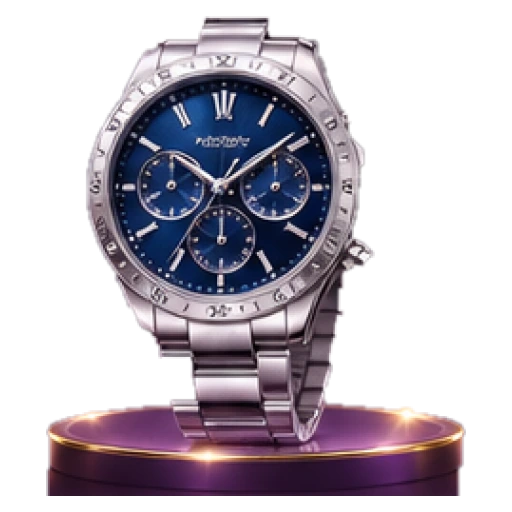
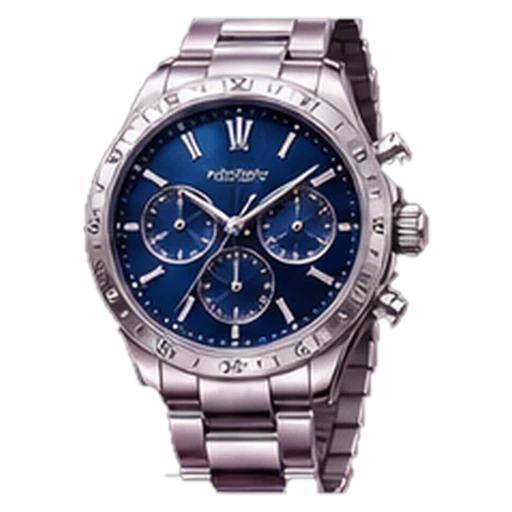
R68z40e: souvenirs without the purple podium (owner request)
Claude-Session: https://claude.ai/code/session_013Dw5YXk6gdhBXsie6KboY7

diff --git a/public/sw.js b/public/sw.js
@@ -1,10 +1,10 @@
 /* لعبك — عامل الخدمة: تحديث الشبكة أولاً، واللعب الجماعي يحتاج اتصال. */
 const CACHE_PREFIX = 'la3bak-shell-';
-const VER = CACHE_PREFIX + 'r68z40d';
+const VER = CACHE_PREFIX + 'r68z40e';
 const LEGACY_SHELL_CACHES = ['la3bak-rank-vip-1'];
 // Deduplicate exact URLs; keep the existing network-first/offline policy.
 // The unused legacy codewords image is not precached; the shipped R45 cover stays.
-const SHELL = [...new Set(['/root-navigation-r50.js?v=back-nav-r51', '/preview/assets/game-minaboli-3d-r49.webp', '/preview/assets/game-codewords-3d-r45.webp', '/emerald-r44.css?v=r58q', '/unified/emerald-room-r44.css?v=r58p', '/unified/gift-compact-r38.css?v=r58p','/unified/room-owner-start-r33.css?v=r58q','/social-room-tools-r33.css?v=r58p','/community-access-r37.js','/unified/notifications.js?v=r68z35','/social-room-tools-r33.js?v=r58p','/room-start-r33.js','/social-gift-context-r33.js','/gift3d-variants-r33.js','/unified/pk-reference-r32.css?v=r58p','/social-challenge.js?v=r57','/social-challenge.css?v=r58p','/room-photo-r31.js?v=room-photo-r31','/unified/room-photo-r31.css?v=r58q','/social-directory-r30.js?v=r68z20','/unified/room-directory-r30.css?v=r58q','/unified/room-style-r27.css?v=r58p', '/unified/reference-room-r28.css?v=r58q', '/unified/reference-panels-r28.css?v=r58q', '/unified/reference-gifts-r28.css?v=r58q', '/unified/gift-colors-r29.css?v=r58p', '/unified/room-dock-r29.css?v=r58p', '/cannon3d-r29.css?v=r58p', '/cannon3d-r29.js?v=r68v-cannon-r29','/social-room-controls-r27.js?v=r67al','/gift3d-r27.js?v=emerald-r44','/gift3d-r27.css','/gift-assets-r27.js?v=r68i-r35','/social-gift-runtime-r27.js?v=r68i','/social-cannon-ui-r27.js?v=r68z40d','/social-challenge.js?v=r57','/social-challenge.css?v=r58p','/store-r23.css?v=r58p','/frame-art-r23.css?v=r58i2','/entrancefx-r23.js?v=r68z38e','/entrancefx-r23.css?v=emerald-r44','/preview/profile-head-r20.css?v=r58p', '/preview/profile-head-r22.css?v=r58p','/preview/profile-list-r19.css?v=r58p','/unified/room-composer-r18.css?v=r58p','/unified/global-search.js?v=r68v-search-r17','/unified/global-search.css?v=r58p','/unified/search-icon.js?v=global-search-r17','/preview/profile-frame-r4.css?v=r58p', '/brand-royal-r16.css?v=r58p', '/preview/profile-host-r15.css?v=emerald-r44','/unified/ranks.js?v=r68z40d', '/unified/ranks.css?v=r58p', '/unified/vip.js?v=r68z40d', '/unified/vip.css?v=r58p', '/unified/vip-noble-r52.js?v=r68z40d', '/unified/vip-noble-r52.css?v=r58q', '/profile-social-r53.js?v=r68z31', '/preview/profile-r53.css?v=r58q', '/preview/rank-overview.js?v=r66b', '/preview/rank-overview.css?v=r58p', '/preview/rank-current.css?v=r58p', '/unified/backgrounds.js?v=r68z40d', '/unified/backgrounds.css?v=r58q', '/background-art.js?v=r58p', '/', '/preview.html?v=release-r14', '/app.css?v=r58q', '/reference-store.css?v=r58p', '/unified/home.css?v=r58p', '/unified/home.js?v=r68z20', '/unified/unified.css?v=r60d', '/unified/shell.js?v=r68z40d', '/preview/profile.css?v=r58p', '/preview/profile-integration.css?v=r58p', '/preview/profile-match.css?v=r58q', '/preview/page-shell.css?v=r58p', '/preview/shop-modern.css?v=r58p', '/preview/app.js?v=r68z40d', '/preview/profile.js?v=r68z40d', '/preview/assets/profile/ui-icons-inline.js?v=r58p', '/preview/assets/profile/rank-display.js', '/pwa.js?v=r68z40d', '/boot.js?v=r64a', '/theme.js?v=r64a', '/theme.js?v=r64a', '/royal-gameplay.css?v=r58p', '/royal-navigation.css?v=r58p', '/auth.js', '/manifest.webmanifest', '/favicon.svg', '/apple-touch-icon.png', '/game-availability.js?v=games-royal-1', '/games.js?v=r68z31',   '/offline.js?v=games-royal-1', '/unified/games.js?v=r68z31', '/unified/social.js?v=r68z40d', '/rank-perks-r56.js?v=r67t', '/rank-perks-r56.css?v=r56', '/unified/social-r55.css?v=r58q', '/unified/social.css?v=r58p', '/social-voice.js?v=release-r14', '/social-assets/majlis-atmosphere.webp', '/admin.js?v=r68z40d', '/admin-bulk-grants.js?v=r66a', '/admin-bulk-grants.css?v=r58p', '/preview/rank-current.css?v=r58p', '/preview/rank-overview.js?v=r66b', '/unified/payments.js?v=r68i', '/account-tools.js?v=ui-correction-r3', '/account-verification.css?v=r58q', '/unified/social-room-r7.css?v=r58p', '/social-gifts.js?v=r68z31', '/social-assets/voice-night-r7.jpg', '/social-assets/friends-room-cover.webp', '/unified/wallet.js?v=r68i', '/shop.js?v=r68z40d', '/unified/store.js?v=r68z40d', '/unified/backgrounds.js?v=r68z40d', '/unified/payments.js?v=r68i', '/unified/payments.css?v=r58p', '/unified/social-settings-r12.css?v=r58p', '/social-benefits.js?v=r68z31', '/unified/social-benefits-r12.css?v=r58q', '/gifts.js?v=r68z31', '/gift-reward-ui.js?v=r68i', '/unified/gift-rewards-r13.css?v=r58p', '/giftart.js?v=r68i-r14', '/unified/game-voice-r9.css?v=r58p'])];
+const SHELL = [...new Set(['/root-navigation-r50.js?v=back-nav-r51', '/preview/assets/game-minaboli-3d-r49.webp', '/preview/assets/game-codewords-3d-r45.webp', '/emerald-r44.css?v=r58q', '/unified/emerald-room-r44.css?v=r58p', '/unified/gift-compact-r38.css?v=r58p','/unified/room-owner-start-r33.css?v=r58q','/social-room-tools-r33.css?v=r58p','/community-access-r37.js','/unified/notifications.js?v=r68z35','/social-room-tools-r33.js?v=r58p','/room-start-r33.js','/social-gift-context-r33.js','/gift3d-variants-r33.js','/unified/pk-reference-r32.css?v=r58p','/social-challenge.js?v=r57','/social-challenge.css?v=r58p','/room-photo-r31.js?v=room-photo-r31','/unified/room-photo-r31.css?v=r58q','/social-directory-r30.js?v=r68z20','/unified/room-directory-r30.css?v=r58q','/unified/room-style-r27.css?v=r58p', '/unified/reference-room-r28.css?v=r58q', '/unified/reference-panels-r28.css?v=r58q', '/unified/reference-gifts-r28.css?v=r58q', '/unified/gift-colors-r29.css?v=r58p', '/unified/room-dock-r29.css?v=r58p', '/cannon3d-r29.css?v=r58p', '/cannon3d-r29.js?v=r68v-cannon-r29','/social-room-controls-r27.js?v=r67al','/gift3d-r27.js?v=emerald-r44','/gift3d-r27.css','/gift-assets-r27.js?v=r68i-r35','/social-gift-runtime-r27.js?v=r68i','/social-cannon-ui-r27.js?v=r68z40e','/social-challenge.js?v=r57','/social-challenge.css?v=r58p','/store-r23.css?v=r58p','/frame-art-r23.css?v=r58i2','/entrancefx-r23.js?v=r68z38e','/entrancefx-r23.css?v=emerald-r44','/preview/profile-head-r20.css?v=r58p', '/preview/profile-head-r22.css?v=r58p','/preview/profile-list-r19.css?v=r58p','/unified/room-composer-r18.css?v=r58p','/unified/global-search.js?v=r68v-search-r17','/unified/global-search.css?v=r58p','/unified/search-icon.js?v=global-search-r17','/preview/profile-frame-r4.css?v=r58p', '/brand-royal-r16.css?v=r58p', '/preview/profile-host-r15.css?v=emerald-r44','/unified/ranks.js?v=r68z40e', '/unified/ranks.css?v=r58p', '/unified/vip.js?v=r68z40e', '/unified/vip.css?v=r58p', '/unified/vip-noble-r52.js?v=r68z40e', '/unified/vip-noble-r52.css?v=r58q', '/profile-social-r53.js?v=r68z31', '/preview/profile-r53.css?v=r58q', '/preview/rank-overview.js?v=r66b', '/preview/rank-overview.css?v=r58p', '/preview/rank-current.css?v=r58p', '/unified/backgrounds.js?v=r68z40e', '/unified/backgrounds.css?v=r58q', '/background-art.js?v=r58p', '/', '/preview.html?v=release-r14', '/app.css?v=r58q', '/reference-store.css?v=r58p', '/unified/home.css?v=r58p', '/unified/home.js?v=r68z20', '/unified/unified.css?v=r60d', '/unified/shell.js?v=r68z40e', '/preview/profile.css?v=r58p', '/preview/profile-integration.css?v=r58p', '/preview/profile-match.css?v=r58q', '/preview/page-shell.css?v=r58p', '/preview/shop-modern.css?v=r58p', '/preview/app.js?v=r68z40e', '/preview/profile.js?v=r68z40e', '/preview/assets/profile/ui-icons-inline.js?v=r58p', '/preview/assets/profile/rank-display.js', '/pwa.js?v=r68z40e', '/boot.js?v=r64a', '/theme.js?v=r64a', '/theme.js?v=r64a', '/royal-gameplay.css?v=r58p', '/royal-navigation.css?v=r58p', '/auth.js', '/manifest.webmanifest', '/favicon.svg', '/apple-touch-icon.png', '/game-availability.js?v=games-royal-1', '/games.js?v=r68z31',   '/offline.js?v=games-royal-1', '/unified/games.js?v=r68z31', '/unified/social.js?v=r68z40e', '/rank-perks-r56.js?v=r67t', '/rank-perks-r56.css?v=r56', '/unified/social-r55.css?v=r58q', '/unified/social.css?v=r58p', '/social-voice.js?v=release-r14', '/social-assets/majlis-atmosphere.webp', '/admin.js?v=r68z40e', '/admin-bulk-grants.js?v=r66a', '/admin-bulk-grants.css?v=r58p', '/preview/rank-current.css?v=r58p', '/preview/rank-overview.js?v=r66b', '/unified/payments.js?v=r68i', '/account-tools.js?v=ui-correction-r3', '/account-verification.css?v=r58q', '/unified/social-room-r7.css?v=r58p', '/social-gifts.js?v=r68z31', '/social-assets/voice-night-r7.jpg', '/social-assets/friends-room-cover.webp', '/unified/wallet.js?v=r68i', '/shop.js?v=r68z40e', '/unified/store.js?v=r68z40e', '/unified/backgrounds.js?v=r68z40e', '/unified/payments.js?v=r68i', '/unified/payments.css?v=r58p', '/unified/social-settings-r12.css?v=r58p', '/social-benefits.js?v=r68z31', '/unified/social-benefits-r12.css?v=r58q', '/gifts.js?v=r68z31', '/gift-reward-ui.js?v=r68i', '/unified/gift-rewards-r13.css?v=r58p', '/giftart.js?v=r68i-r14', '/unified/game-voice-r9.css?v=r58p'])];
 self.addEventListener('install', (e) => {
   e.waitUntil(caches.open(VER).then((c) => Promise.all(SHELL.map((u) => c.add(new Request(u, { cache: 'reload' })).catch(() => {})))).then(() => self.skipWaiting()));
 });
@@ -22,7 +22,7 @@ self.addEventListener('fetch', (e) => {
   // الحين: الملف اللي فيه رقم نسخة (?v=) ما يتغير أبدًا → من الكاش على طول. الصور والملفات الثابتة بدون رقم → من الكاش ونحدّثها بالخلفية.
   // الصفحة نفسها (HTML) وملف sw → من الشبكة أول (عشان التحديثات توصل على طول)، والكاش لو ما فيه نت.
   const put = (res) => { if (res && res.ok && res.type === 'basic') { const copy = res.clone(); e.waitUntil(caches.open(VER).then((c) => c.put(req, copy)).catch(() => {})); } return res; };
-  const isPage = req.mode === 'navigate' || url.pathname === '/' || /\.(?:html|webmanifest)$/.test(url.pathname) || url.pathname === '/sw.js?v=r68z40d';
+  const isPage = req.mode === 'navigate' || url.pathname === '/' || /\.(?:html|webmanifest)$/.test(url.pathname) || url.pathname === '/sw.js?v=r68z40e';
   if (isPage) {
     e.respondWith(fetch(req, { cache: 'no-cache' }).then(put).catch(async () => { const c = await caches.open(VER); const hit = await c.match(req); return hit || (req.mode === 'navigate' ? (await c.match('/')) || Response.error() : Response.error()); }));
     return;

diff --git a/public/preview/app.js b/public/preview/app.js
@@ -1,8 +1,8 @@
 import { createGlobalSearch } from '../unified/global-search.js?v=r68v-search-r17';
-import * as PR from './profile.js?v=r68z40d';
-import * as UNIFIED from '../unified/shell.js?v=r68z40d';
+import * as PR from './profile.js?v=r68z40e';
+import * as UNIFIED from '../unified/shell.js?v=r68z40e';
 import * as REF from '../unified/home.js?v=r68z20';
-import * as SOCIAL from '../unified/social.js?v=r68z40d';
+import * as SOCIAL from '../unified/social.js?v=r68z40e';
 const { leaveSocial, refreshSocial } = SOCIAL;
 import { isRetiredGame, visibleGameCatalogue, retiredGameHTML } from '../game-availability.js?v=games-royal-1';
 import { createSocialGiftStore } from '../social-gifts.js?v=r68z31';
@@ -22,8 +22,8 @@ import * as FS from '../fullscreen.js?v=shell-r6';
 import { mountSprite } from '../characters.js?v=shell-r6';
 mountSprite();
 import * as SEASON from '../seasons.js?v=shell-r6';
-import * as PF from '../profile.js?v=r68z40d';
-import * as SHOP from '../shop.js?v=r68z40d';
+import * as PF from '../profile.js?v=r68z40e';
+import * as SHOP from '../shop.js?v=r68z40e';
 import * as GIFT from '../gifts.js?v=r68z31';
 import * as GFX from '../giftfx.js?v=r68i';
 import * as AVR from '../avatars.js?v=r68z31';
@@ -40,10 +40,10 @@ import * as CITY from '../city.js?v=r57';
 import * as COM from '../community.js?v=r68z35';
 import { isCommunityRestricted } from '../community-access-r37.js';
 import * as THEME from '../theme.js?v=r64a';
-import * as PWA from '../pwa.js?v=r68z40d';
+import * as PWA from '../pwa.js?v=r68z40e';
 import * as SFX from '../sfx.js?v=shell-r6';
 import * as OFF from '../offline.js?v=games-royal-1';
-import * as MIS from '../missions.js?v=r68z40d';
+import * as MIS from '../missions.js?v=r68z40e';
 import * as CHAT from '../chat.js?v=r68z31';
 import { accountToolsView } from '../account-tools.js?v=shell-r6';
 
@@ -395,7 +395,7 @@ function unifiedContext(page, content='') {
 /* R60: الإعدادات/الخصوصية/معلومات الحساب (قوائم صفوف مثل فيديو المالك) */
 let S60 = null;
 async function settingsR60(view, name) {
-  const M = await import('../settings-r60.js?v=r68z40d');
+  const M = await import('../settings-r60.js?v=r68z40e');
   const st = { msg: '', bad: false, priv: null, settings: null };
   const paint = () => {
     if (parseRoute().name !== name) return;
@@ -668,7 +668,7 @@ async function render() {
       break;
     case 'admin': {
       const identity=S.user?.id||'',existing=view.querySelector('#adminRoot');
-      if(changed||!existing||existing.dataset.sessionIdentity!==identity) {view.innerHTML='<div id="adminRoot"></div>';const root=view.querySelector('#adminRoot');root.dataset.sessionIdentity=identity;import('../admin.js?v=r68z40d').then(m=>{if(root.isConnected&&parseRoute().name==='admin')m.mountAdmin(root);}).catch(()=>{if(root.isConnected)root.textContent='تعذّر تحميل الإدارة؛ حدّث الصفحة.';});}
+      if(changed||!existing||existing.dataset.sessionIdentity!==identity) {view.innerHTML='<div id="adminRoot"></div>';const root=view.querySelector('#adminRoot');root.dataset.sessionIdentity=identity;import('../admin.js?v=r68z40e').then(m=>{if(root.isConnected&&parseRoute().name==='admin')m.mountAdmin(root);}).catch(()=>{if(root.isConnected)root.textContent='تعذّر تحميل الإدارة؛ حدّث الصفحة.';});}
       break;
     }
     case 'city':

diff --git a/public/admin.js b/public/admin.js
@@ -1,12 +1,12 @@
 import {mountAuctionAdminR47} from './auction-admin-r47.js?v=r57';
-import {mountRankVipAdmin} from './rank-vip-admin.js?v=r68z40d';
+import {mountRankVipAdmin} from './rank-vip-admin.js?v=r68z40e';
 import { side68, head68, brand68, dash68HTML } from './admin-dash-r68.js?v=r68z10';
 import {adminRoyalIcon,adminRoyalBrand,adminRoyalLogin,adminRoyalOverview} from './admin-royal-view.js?v=r68l-royal-1';
-import {mountPaymentAdmin} from './payment-admin.js?v=r68z40d';
+import {mountPaymentAdmin} from './payment-admin.js?v=r68z40e';
 import {mountBulkGrants,unmountBulkGrants,resetBulkGrants} from './admin-bulk-grants.js?v=r66a';
-import {mountSocialAdmin} from './social-admin.js?v=r68z40d';
-import { pricingHTML, progressionHTML } from './economy-admin.js?v=r68z40d';
-import { ownerToolsVisible, ownerToolsEntryHTML, mountOwnerPlayerTools } from './owner-player-tools.js?v=r68z40d';
+import {mountSocialAdmin} from './social-admin.js?v=r68z40e';
+import { pricingHTML, progressionHTML } from './economy-admin.js?v=r68z40e';
+import { ownerToolsVisible, ownerToolsEntryHTML, mountOwnerPlayerTools } from './owner-player-tools.js?v=r68z40e';
 /* لوحة الإدارة (عربي RTL). كل البيانات من /api/admin/* بالخادم؛ الواجهة تخفي ما لا تملك صلاحيته لكن الحماية الفعلية بالخادم.
    الدخول: رمز الإدارة (يُحفظ بـ sessionStorage فقط، يزول بإغلاق التبويب) أو حساب مسجّل بالطاقم. */
 const esc = (s) => String(s ?? '').replace(/[&<>"']/g, (c) => ({ '&': '&amp;', '<': '&lt;', '>': '&gt;', '"': '&quot;', "'": '&#39;' }[c]));
@@ -350,7 +350,7 @@ export function mountAdmin(root) {
     const bulkRoot=root.querySelector('[data-bulk-grants-host]');
     if(bulkRoot && can('wallet.bulk-grant')) mountBulkGrants(bulkRoot,{call,me:{...S.me,perms:[...S.me.perms,'rewards.grant']}});
     const functional=root.querySelector('[data-functional-admin]');
-    if(functional) import('./functional-admin.js?v=r68z40d').then(({mountFunctionalAdmin})=>{if(functional.isConnected)mountFunctionalAdmin(functional,{api:(path,method='GET',body)=>call(path,{method,body})});}).catch(()=>{if(functional.isConnected)functional.textContent='تعذّر تحميل أدوات الوظائف. أعد فتح التبويب.';});
+    if(functional) import('./functional-admin.js?v=r68z40e').then(({mountFunctionalAdmin})=>{if(functional.isConnected)mountFunctionalAdmin(functional,{api:(path,method='GET',body)=>call(path,{method,body})});}).catch(()=>{if(functional.isConnected)functional.textContent='تعذّر تحميل أدوات الوظائف. أعد فتح التبويب.';});
   }
   async function go(tab, keep = false) { if (tab === 'owner-tools' && !ownerToolsVisible(S.me)) return; if (tab) { if (tab !== 'player-log') S.logQ = ''; S.tab = tab; S.player = null; } S.sidebarOpen=false; if (!keep) { S.err = ''; S.msg = ''; S.warn = ''; } paint(); await load(); paint(); }
   async function run(fn, ok) {

diff --git a/public/index.html b/public/index.html
@@ -25,10 +25,10 @@
 <link rel="preconnect" href="https://fonts.googleapis.com">
 <link rel="preconnect" href="https://fonts.gstatic.com" crossorigin>
 <!-- Exact URLs used by app.js/shell.js: modulepreload warms, never forks module state. -->
-<link rel="modulepreload" href="/preview/app.js?v=r68z40d">
-<link rel="modulepreload" href="/unified/shell.js?v=r68z40d">
+<link rel="modulepreload" href="/preview/app.js?v=r68z40e">
+<link rel="modulepreload" href="/unified/shell.js?v=r68z40e">
 <link rel="modulepreload" href="/unified/home.js?v=r68z20">
-<link rel="modulepreload" href="/preview/profile.js?v=r68z40d">
+<link rel="modulepreload" href="/preview/profile.js?v=r68z40e">
 <link rel="stylesheet" href="/app.css?v=r58q">
 <link rel="stylesheet" href="/reference-store.css?v=r58p">
 <link rel="stylesheet" href="/unified/home.css?v=r58p">
@@ -157,11 +157,11 @@
 <script type="module" src="/bonds-r68.js?v=r68z36"></script>
 <script type="module" src="/theme-r68.js?v=r68z39d"></script>
 <script type="module" src="/profile-cards-r67.js?v=r68z15"></script>
-<script type="module" src="/profile-bg-r67.js?v=r68z40d"></script>
+<script type="module" src="/profile-bg-r67.js?v=r68z40e"></script>
 <script type="module" src="/broadcast-r67.js?v=r67ao"></script>
 <script type="module" src="/room-level-r67.js?v=r67av"></script>
 <script type="module" src="/account-delete-r67.js?v=r67at"></script>
 <script type="module" src="/tribe-r58.js?v=r63a"></script>
-<script type="module" src="/preview/app.js?v=r68z40d"></script>
+<script type="module" src="/preview/app.js?v=r68z40e"></script>
 </body>
 </html>

diff --git a/public/preview.html b/public/preview.html
@@ -25,10 +25,10 @@
 <link rel="preconnect" href="https://fonts.googleapis.com">
 <link rel="preconnect" href="https://fonts.gstatic.com" crossorigin>
 <!-- Exact URLs used by app.js/shell.js: modulepreload warms, never forks module state. -->
-<link rel="modulepreload" href="/preview/app.js?v=r68z40d">
-<link rel="modulepreload" href="/unified/shell.js?v=r68z40d">
+<link rel="modulepreload" href="/preview/app.js?v=r68z40e">
+<link rel="modulepreload" href="/unified/shell.js?v=r68z40e">
 <link rel="modulepreload" href="/unified/home.js?v=r68z20">
-<link rel="modulepreload" href="/preview/profile.js?v=r68z40d">
+<link rel="modulepreload" href="/preview/profile.js?v=r68z40e">
 <link rel="stylesheet" href="/app.css?v=r58q">
 <link rel="stylesheet" href="/reference-store.css?v=r58p">
 <link rel="stylesheet" href="/unified/home.css?v=r58p">
@@ -147,11 +147,11 @@
 <script type="module" src="/bonds-r68.js?v=r68z36"></script>
 <script type="module" src="/theme-r68.js?v=r68z39d"></script>
 <script type="module" src="/profile-cards-r67.js?v=r68z15"></script>
-<script type="module" src="/profile-bg-r67.js?v=r68z40d"></script>
+<script type="module" src="/profile-bg-r67.js?v=r68z40e"></script>
 <script type="module" src="/broadcast-r67.js?v=r67ao"></script>
 <script type="module" src="/room-level-r67.js?v=r67av"></script>
 <script type="module" src="/account-delete-r67.js?v=r67at"></script>
 <script type="module" src="/tribe-r58.js?v=r63a"></script>
-<script type="module" src="/preview/app.js?v=r68z40d"></script>
+<script type="module" src="/preview/app.js?v=r68z40e"></script>
 </body>
 </html>

diff --git a/public/shop.js b/public/shop.js
@@ -85,7 +85,7 @@ function thumb(i) {
   if (i.slot === 'entrance') return safeArt(i.art) ? `<img class="r23-entrance-art" src="${esc(safeArt(i.art))}" alt="" loading="lazy" decoding="async">` : `<span class="r23-art-missing">${renderProfileIcon('image')}<small>صورة المركبة غير متاحة</small></span>`;
   // R58r: إطار المايك فوق دائرة تمثّل صورة المتحدث
   if (i.slot === 'mic-frame') return /^mf\d\d$/.test(i.css || '') ? `<span class="mf-thumb"><i aria-hidden="true">🎙</i><img src="/assets/art58/mic/m${esc(i.css.slice(2))}.webp?v=r58r" alt="" loading="lazy" decoding="async"></span>` : renderProfileIcon('star');
-  if (i.slot === 'souvenir') return safeArt(i.art) ? `<img class="r23-souv-art" src="${esc(safeArt(i.art))}?v=${i.id >= 'souv-29' ? 'r68z40d' : 'r58o'}" alt="" loading="lazy" decoding="async">` : renderProfileIcon('star');
+  if (i.slot === 'souvenir') return safeArt(i.art) ? `<img class="r23-souv-art" src="${esc(safeArt(i.art))}?v=${i.id >= 'souv-29' ? 'r68z40e' : 'r58o'}" alt="" loading="lazy" decoding="async">` : renderProfileIcon('star');
   if (i.slot === 'avatar') return avatarArt(i.id, 64, i.css === 'av2' ? undefined : i.css) || renderProfileIcon('person');
   if (i.slot === 'frame') return safeArt(i.art) ? `<img class="r23-frame-art" src="${esc(safeArt(i.art))}" alt="" loading="lazy" decoding="async">` : referenceOf(i.css || i.id)?.slot === 'frame' ? referenceImage(i.css || i.id, 'r23-frame-art') : framed(i.css, FACE, 'sm');
   if (i.slot === 'bg') return `<span class="cx-bgthumb">${bgLayer(i)}</span>`;

diff --git a/public/unified/social.js b/public/unified/social.js
@@ -7,14 +7,14 @@ import {roomPhotoFields,createRoomPhotoPicker} from '../room-photo-r31.js?v=room
 import {renderDirectory,renderCreateFields,validateCreate} from '../social-directory-r30.js?v=r68z20';
 import {createOwnerRoomStart,confirmedOwnerSeat,startOwnerVoice,ownerStartFeedback} from '../room-start-r33.js?v=room-owner-start-r33';
 import {themeName,themeCards,applyRoomTheme,seatLockCards} from '../social-room-controls-r27.js?v=r67al';
-import {framed as frameOwnedPortrait} from '../shop.js?v=r68z40d';
+import {framed as frameOwnedPortrait} from '../shop.js?v=r68z40e';
 import { createEntranceFX } from '../entrancefx-r23.js?v=r68z38e';
 import { createSocialChallenge, renderSetup, validateTeams, preserveScorebar } from '../social-challenge.js?v=r57';
 import {attachGiftRuntime,receiveGiftRuntime,clearGiftRuntime,giftRuntimeMetrics,giftArtwork} from '../social-gift-runtime-r27.js?v=r68i';
 import {bigGift} from './gift-big-r67.js?v=r68i';
 import {cinemaHTML,cinemaMount,cinemaUnmount,cinemaPosition,parseYouTube} from './room-cinema-r67.js?v=r67s';
 import {cannon3Shortcut,cannon3Panel,cannon3Blast} from './room-cannon-r59.js?v=r67i';
-import {cannonPanel,cannonShortcut,createCannonEffects} from '../social-cannon-ui-r27.js?v=r68z40d';
+import {cannonPanel,cannonShortcut,createCannonEffects} from '../social-cannon-ui-r27.js?v=r68z40e';
 /* Social rooms only. Parent owns routes, session, authenticated api and shell.
  * The live controller outlives DOM mounts. No implicit room/council join on render. */
 import { mini as avatarMini } from '../avatars.js?v=r68z31';

diff --git a/public/unified/shell.js b/public/unified/shell.js
@@ -13,11 +13,11 @@ import * as drawer from './drawer.js?v=r68z31';
 import * as ranking from './ranking.js?v=r68z31';
 import * as games from './games.js?v=r68z31';
 import * as settings from './settings.js?v=r58p';
-import * as store from './store.js?v=r68z40d';
+import * as store from './store.js?v=r68z40e';
 import * as payments from './payments.js?v=r68i';
-import * as ranks from './ranks.js?v=r68z40d';
-import * as vip from './vip.js?v=r68z40d';
-import * as social from './social.js?v=r68z40d';
+import * as ranks from './ranks.js?v=r68z40e';
+import * as vip from './vip.js?v=r68z40e';
+import * as social from './social.js?v=r68z40e';
 const modules={home,rooms,wallet,notifications,messages,friends,ranking,games,settings,store,payments,ranks,vip,social};
 export const routes=Object.freeze(['home','rooms','social-rooms','social-room','wallet','notifications','notifications-internal','messages','friends','leaderboard','games','settings','shop','payments','ranks','vip','game','hub','room','join','city','lobby','play','offline','daily','challenge','events','tournaments','support','contact','auction','family','missions','wheel','phone','ids','visitors','invite','verification','rank-rewards','about','privacy','terms','agreement','privacy-settings','account-info','devices','hidden-posts','community','post','u','not-found']);
 export const hasRoute=name=>routes.includes(name);

diff --git a/public/settings-r60.js b/public/settings-r60.js
@@ -186,7 +186,7 @@ const pushSupported = () => 'serviceWorker' in navigator && 'PushManager' in win
 const isIOS = () => /iPad|iPhone|iPod/.test(navigator.userAgent) || (navigator.platform === 'MacIntel' && navigator.maxTouchPoints > 1);
 const standalone = () => matchMedia('(display-mode: standalone)').matches || navigator.standalone === true;
 const keyBytes = (b64) => { const s = atob((b64 + '='.repeat((4 - b64.length % 4) % 4)).replace(/-/g, '+').replace(/_/g, '/')); return Uint8Array.from(s, (c) => c.charCodeAt(0)); };
-async function pushReg() { return (await navigator.serviceWorker.getRegistration()) || navigator.serviceWorker.register('/sw.js?v=r68z40d'); }
+async function pushReg() { return (await navigator.serviceWorker.getRegistration()) || navigator.serviceWorker.register('/sw.js?v=r68z40e'); }
 function pushPaint(root, on, note) { const b = root.querySelector('[data-s60-push]'); const n = root.querySelector('[data-s60-push-note]'); if (b) { b.classList.toggle('is-on', !!on); b.setAttribute('aria-checked', String(!!on)); } if (n) n.textContent = note || ''; }
 export async function pushState(root) {
   if (!root.querySelector('[data-s60-push]')) return;

diff --git a/public/preview/profile.js b/public/preview/profile.js
@@ -6,10 +6,10 @@ import { SEARCH_ICON } from '../unified/search-icon.js?v=global-search-r17';
  * Trusted app renderers: avatarHTML(size), framed(face, frame, size), bgHTML(bg),
  * googleCard(). All ordinary data and bio are escaped. No localStorage writes.
  */
-import { framed as shopFramed, bgLayer } from '../shop.js?v=r68z40d';
+import { framed as shopFramed, bgLayer } from '../shop.js?v=r68z40e';
 import { avatarArt } from '../avatars.js?v=r68z31';
 import { renderProfileIcon } from './assets/profile/ui-icons-inline.js?v=r58p';
-import { ensureOwnerToolsCss } from '../owner-player-tools.js?v=r68z40d';
+import { ensureOwnerToolsCss } from '../owner-player-tools.js?v=r68z40e';
 import { referenceOf, referenceImage, ACHIEVEMENT_ART, ACHIEVEMENT_ART_KIDS } from '../reference-assets.js?v=r68z31';
 import { nav68HTML } from '../nav-r68.js?v=r68z27';
 import { officialBadge } from '../official-badge-r67.js?v=r67as';

diff --git a/public/unified/vip.js b/public/unified/vip.js
@@ -2,7 +2,7 @@
  * Only server-approved offers can proceed to preview and explicit confirmation. */
 import { EFFECTS as PERK_EFFECTS, effectArt, effectKindLabel } from '../rank-perks-r56.js?v=r67t';
 import * as R from './rank-vip-shared.js?v=r66b';
-import * as V from './vip-noble-r52.js?v=r68z40d';
+import * as V from './vip-noble-r52.js?v=r68z40e';
 const { esc, obj, list, nat, fmt, icon, artwork } = R;
 const STATUS_NAMES = Object.freeze({ active: 'عضوية نشطة', inactive: 'عضوية غير مفعّلة', expired: 'انتهت صلاحية العضوية', legacy: 'رتبة VIP سابقة · دون عضوية مؤرخة' });
 const BENEFIT_SYMBOLS = Object.freeze({ frame: 'frame', title: 'crown', badge: 'medal', bg: 'image', background: 'image', effect: 'star', social: 'users' });

diff --git a/public/pwa.js b/public/pwa.js
@@ -13,7 +13,7 @@ export function init(cb) {
   onChange = cb;
   if ('serviceWorker' in navigator && (location.protocol === 'https:' || location.hostname === 'localhost' || location.hostname === '127.0.0.1')) {
     // R60b: لو الصفحة خلصت تحميل قبل ما يوصل هالسطر، حدث load ما يرجع يصير — فنسجّل على طول (قبل كان الـ SW أحيانًا ما يتسجل أبدًا)
-    const reg = () => navigator.serviceWorker.register('/sw.js?v=r68z40d').catch(() => {});
+    const reg = () => navigator.serviceWorker.register('/sw.js?v=r68z40e').catch(() => {});
     if (document.readyState === 'complete') reg(); else window.addEventListener('load', reg);
   }
   window.addEventListener('beforeinstallprompt', (e) => {
